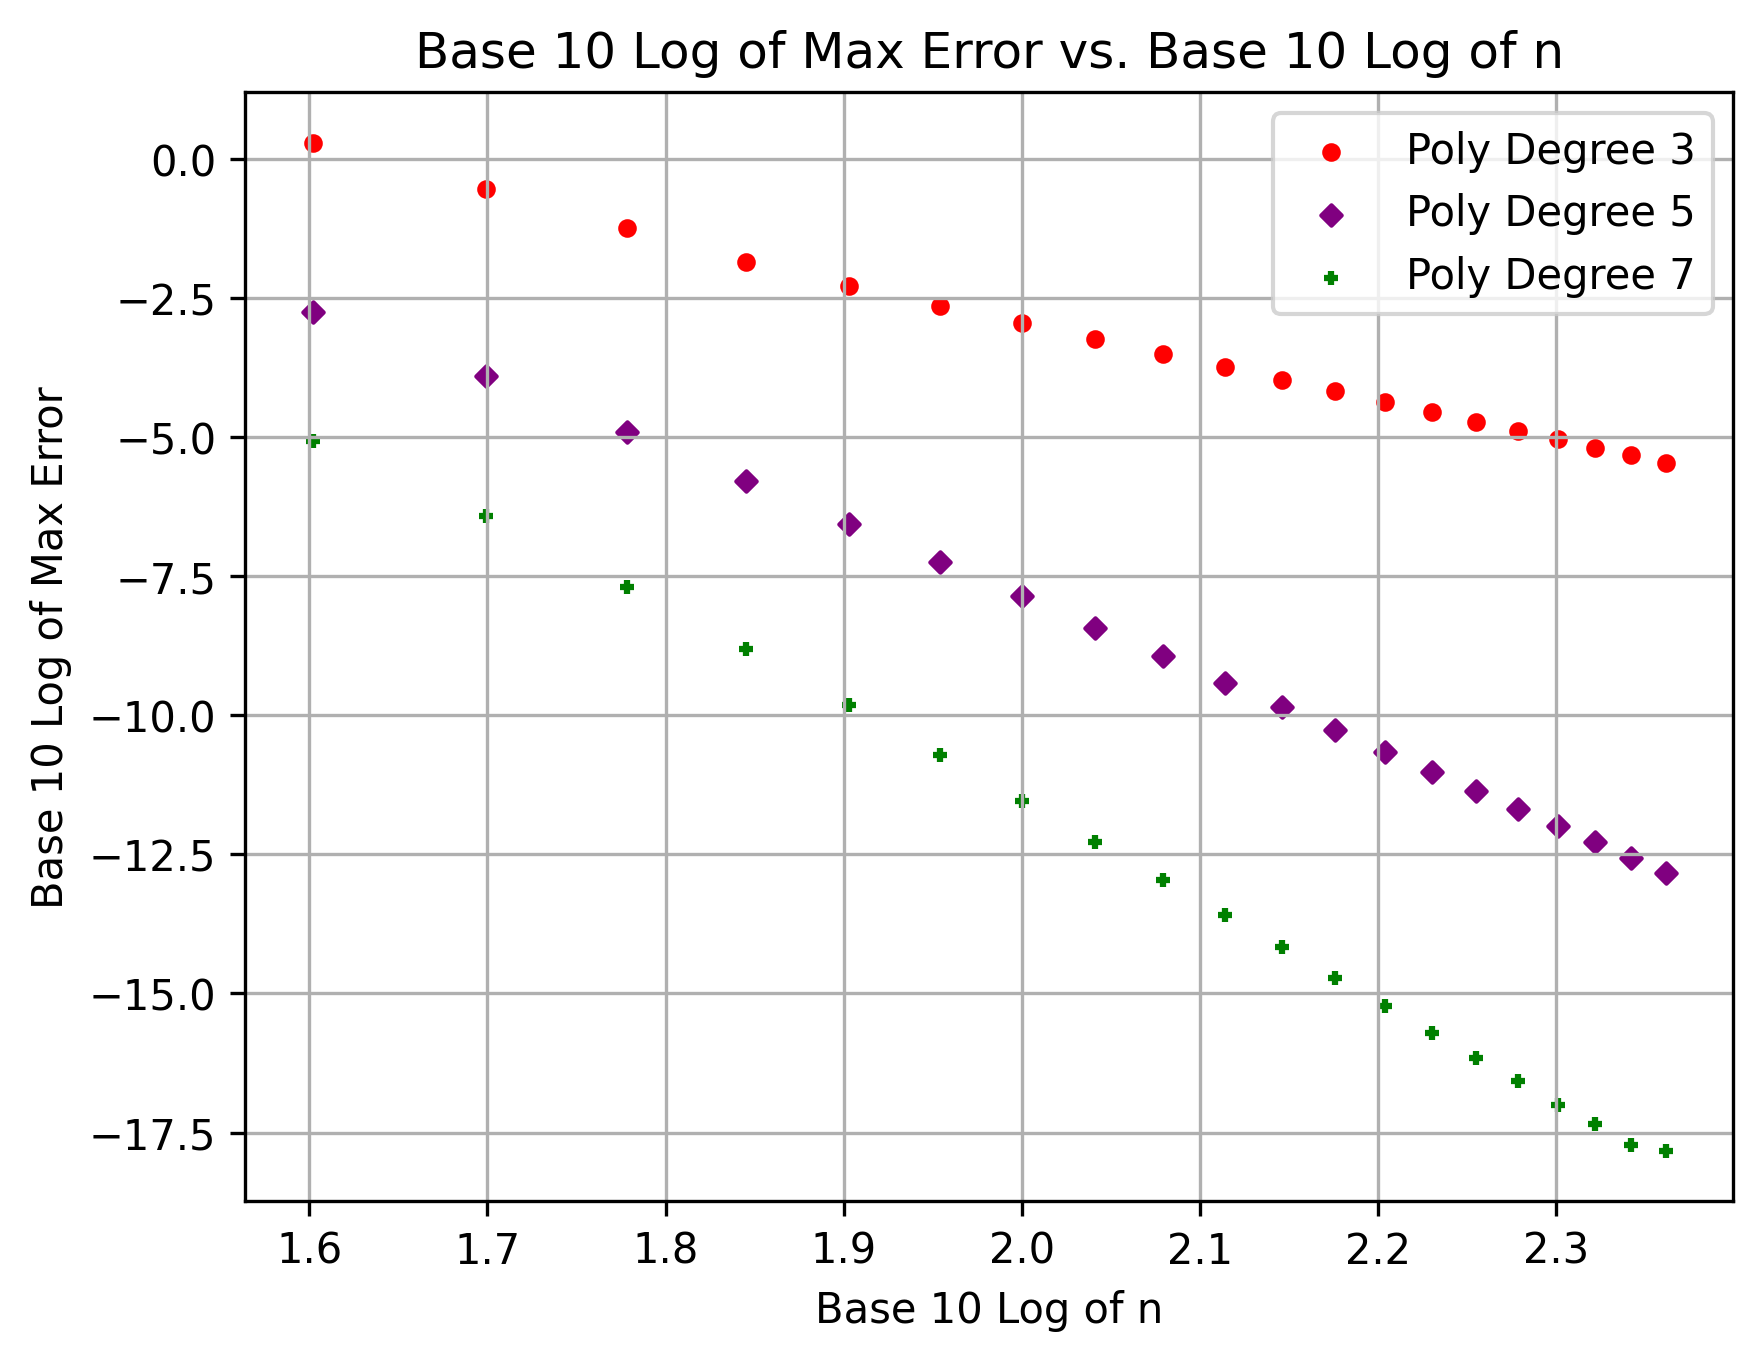
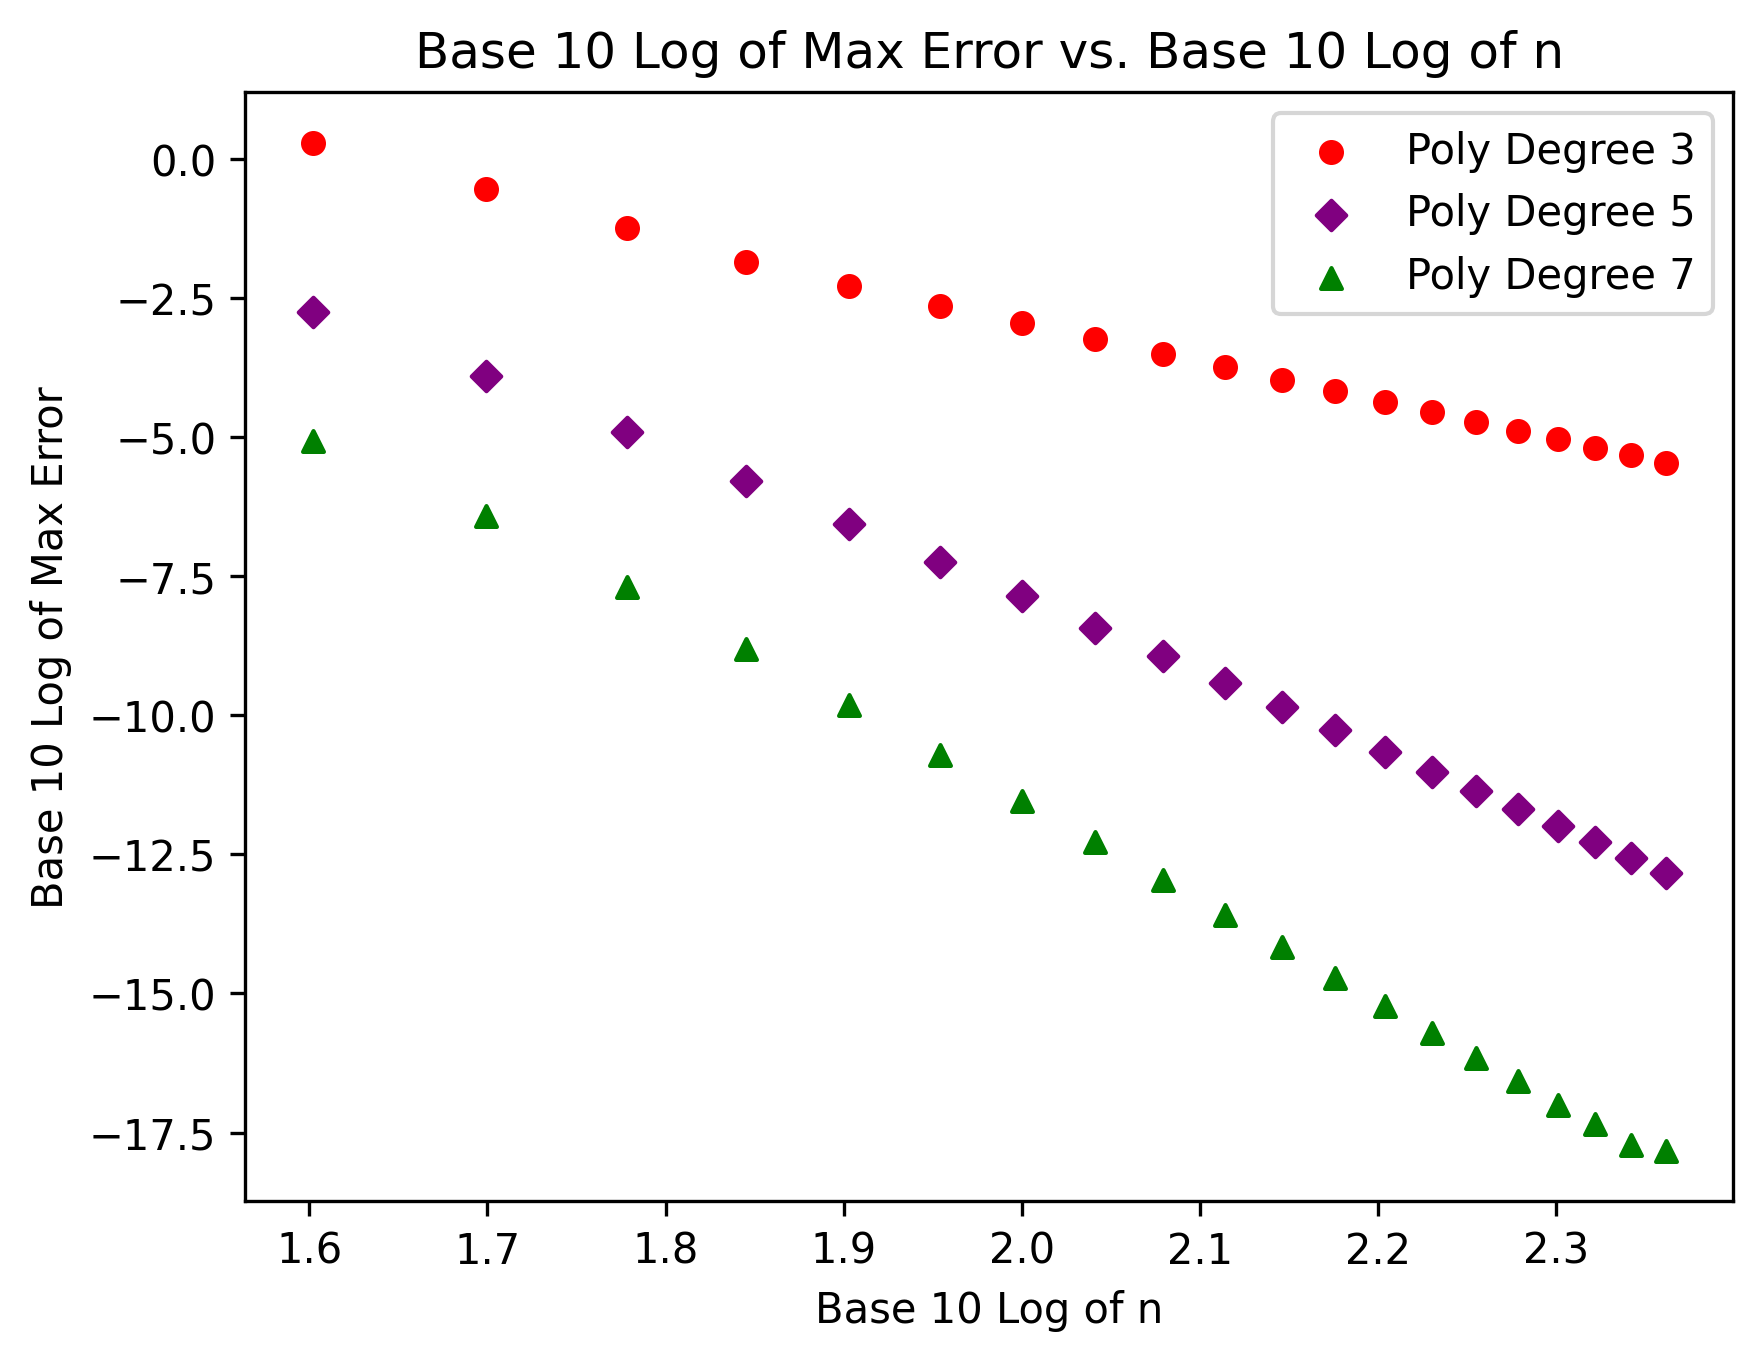
Added test case for second derivative rbf fd

diff --git a/Test_Cases/fd_testcase_d2.py b/Test_Cases/fd_testcase_d2.py
@@ -18,14 +18,17 @@ start_time = time.time()
 def true_func(x):
     return np.sin(2*np.pi * x)
 
-def true_func_dx(x):
-    return 2*np.pi * np.cos(2*np.pi * x)
+def true_func_dxx(x):
+    return -4*(np.pi*np.pi) * np.sin(2*np.pi * x)
 
 def phs(r):
     return (abs(r) ** (degree))
 
 def deriv_phs(r):
     return degree * (np.abs(r) ** (degree - 1))
+
+def deriv2_phs(r):
+    return degree * (degree - 1) * (np.abs(r) ** (degree - 2))
 
 def list_to_matrix(list):
       return np.matrix(np.array(list))
@@ -46,102 +49,86 @@ def knn_matrix_creator(xvals,n_knn):
     distances = []
   return matrix, indices
 
-### Base Functions
-
-def poly_terms_and_dt(var1, t, poly_degree):
-    """
-    Returns:
-        terms: list of polynomial terms evaluated at (x, t)
-        dterms_dt: list of derivatives of those terms with respect to t
-    """
-    terms = []
-    dterms_dt = []
-    # Generate all monomials: x^i * t^j where i + j <= poly_degree
-    for i in range(poly_degree + 1):
-        for j in range(poly_degree + 1 - i):
-            term = (var1 ** i) * (t ** j)
-            # Derivative w.r.t t: j * x^i * t^(j-1) (if j > 0), else 0
-            if j == 0:
-                dterm_dt = 0
-            else:
-                dterm_dt = j * (var1 ** i) * (t ** (j - 1))
-                print("i: " + str(i) + " j: " + str(j))
-            terms.append(term)
-            dterms_dt.append(dterm_dt)
-    return terms, dterms_dt
 
 # Example usage:
 poly_degree = 3
 
-def local_rbf_fd(xvals = xvals, poly_degree = poly_degree):
+def local_rbf_fd_d2(xvals = xvals, poly_degree = poly_degree):
+    """
+    Calculates the SECOND derivative (D2) matrix.
+    Written in the same style as the original local_rbf_fd.
+    """
+    num_knn = (2*poly_degree) + 1  # creates x values into a np.array
     
-    num_knn = (2*poly_degree) + 1
-   
+    # Kept your original (inefficient) way of calling this twice
     knn_matrix = knn_matrix_creator(xvals,num_knn)[0]
     indices = knn_matrix_creator(xvals,num_knn)[1]
     length = len(xvals)
     final_matrix = np.zeros(len(xvals)**2).reshape(len(xvals),len(xvals))
 
-
+    # Kept these unused variables
     X, Y = np.meshgrid(xvals, xvals)
     final_matrices = []
     local_diff_matrix =[]
     center = 0
 
     for i in range(length):
-      knn = []
-      for j in range(num_knn):
-        index = indices[i][j]
-        knn.append(xvals[index])
+        knn = []
+        for j in range(num_knn):
+            index = indices[i][j]
+            knn.append(xvals[index])
 
-      X, Y = np.meshgrid(knn, knn)
-      r = X-Y
-      phs_matrix= np.ones(len(r))
+        X, Y = np.meshgrid(knn, knn)
+        r = X-Y
+        phs_matrix= np.ones(len(r))
 
-    #Creates the matrix of distances between the sample points
-      for z in range(0,len(r)):
-          row = phs(r[z])
-          phs_matrix = np.vstack((phs_matrix,row))
-      phs_matrix = phs_matrix[1:]
-
-      sol_vec = np.array(deriv_phs(r[0]))
-     #Creates the matrix of added polynomial terms
-      poly_matrix = []
-      for z in range(len(knn)):
-        row = []
-        row.append(1)
-        for k in range(1,poly_degree+1):
-            row.append(knn[z]**(k))
-        poly_matrix.append(row)
-      phs_matrix = list_to_matrix(phs_matrix)
-      poly_matrix = list_to_matrix(poly_matrix)
-      poly_matrix_t = poly_matrix.getT() #getT gets the transpose of the matrix
-      zeroes = np.matrix(np.array([0]*(poly_degree+1)**2).reshape(poly_degree+1,poly_degree+1))
+        #Creates the matrix of distances between the sample points
+        for z in range(0,len(r)):
+            row = phs(r[z])
+            phs_matrix = np.vstack((phs_matrix,row))
+        phs_matrix = phs_matrix[1:]
 
 
-      top_half_A = np.hstack((phs_matrix.getA(),poly_matrix.getA())) #getA makes the matrix an array which allows us to stack it
-      bottom_half_A = np.hstack((poly_matrix_t.getA(), zeroes.getA()))
-      A_matrix = np.matrix(np.vstack((top_half_A,bottom_half_A)))
 
-      poly_deriv_vec = []
-      center_node_x = knn[0] # The center of the stencil
+        sol_vec = np.array(deriv2_phs(r[0]))
+
+
+        #Creates the matrix of added polynomial terms
+        poly_matrix = []
+        for z in range(len(knn)):
+            row = []
+            row.append(1)
+            for k in range(1,poly_degree+1):
+                row.append(knn[z]**(k))
+            poly_matrix.append(row)
+        
+
+        phs_matrix = list_to_matrix(phs_matrix)
+        poly_matrix = list_to_matrix(poly_matrix)
+        poly_matrix_t = poly_matrix.getT() #getT gets the transpose of the matrix
+        zeroes = np.matrix(np.array([0]*(poly_degree+1)**2).reshape(poly_degree+1,poly_degree+1))
+        
+        top_half_A = np.hstack((phs_matrix.getA(),poly_matrix.getA()))
+        bottom_half_A = np.hstack((poly_matrix_t.getA(), zeroes.getA()))
+        A_matrix = np.matrix(np.vstack((top_half_A,bottom_half_A)))
+
+        poly_deriv_vec = []
+        center_node_x = knn[0] # The center of the stencil
     
-      for k in range(poly_degree + 1):
-        if k == 0:
-            poly_deriv_vec.append(0.0)  # d(1)/dx = 0
-        else:
-            # d(x^k)/dx = k * x^(k-1)
-            poly_deriv_vec.append(k * (center_node_x ** (k - 1)))
-            
-      # Append the correct derivative vector
-      sol_vec = np.append(sol_vec, poly_deriv_vec)
+        for k in range(poly_degree + 1):
+            if k == 0 or k == 1:
+                poly_deriv_vec.append(0.0)  
+            else:
 
-      finite_weights = np.linalg.solve(A_matrix, sol_vec)
-      final_matrix[i][indices[i]] = finite_weights[0:num_knn]
-    d1_matrix = final_matrix
-    u = true_func(xvals)
-    u_dx_approx = d1_matrix @ u
-    return u_dx_approx
+                poly_deriv_vec.append(k * (k - 1) * (center_node_x ** (k - 2)))
+
+                
+        sol_vec = np.append(sol_vec, poly_deriv_vec)
+
+        finite_weights = np.linalg.solve(A_matrix, sol_vec)
+        final_matrix[i][indices[i]] = finite_weights[0:num_knn]
+    return final_matrix
+
 
 # Graphs The Derivative Approximation vs The True Derivative
 
@@ -172,9 +159,10 @@ for k in range(1,5): # Iterates over polynomial degrees
    for j in range(1,21): # Iterates over number of sample points
       num_pts = 30 + 10*j
       xvals = np.linspace(start, stop, num=num_pts)  # creates x values into a np.array
-      true_vals = true_func_dx(xvals)
-      est_deriv = local_rbf_fd(xvals, (k*2)+1)
-      error = np.log(np.max(np.abs(est_deriv - true_vals)))
+      true_d2_vals = true_func_dxx(xvals)
+      true_vals = true_func(xvals)
+      est_deriv = local_rbf_fd_d2(xvals, (k*2)+1) @ true_vals
+      error = np.log(np.max(np.abs(est_deriv - true_d2_vals)))
       if k == 1:
          poly_degree_3_vec.append(error)
          xvals_graph = np.append(xvals_graph, num_pts)
@@ -196,15 +184,5 @@ plt.ylabel('Base 10 Log of Max Error')
 plt.title('Base 10 Log of Max Error vs. Base 10 Log of n')
 plt.grid(False)
 plt.legend()
-plt.savefig(r"c:\Users\lucas\RBF_Research\RBF_Research\Test_Cases\deriv_error_vs_n.png", dpi=300, bbox_inches="tight")
+plt.savefig(r"c:\Users\lucas\RBF_Research\RBF_Research\Test_Cases\2nd_deriv_error_vs_n.png", dpi=300, bbox_inches="tight")
 plt.show()
-
-
-# Do another example with the D2 directly calculated and D1*D1
-
-
-
-    
-
-
-         
